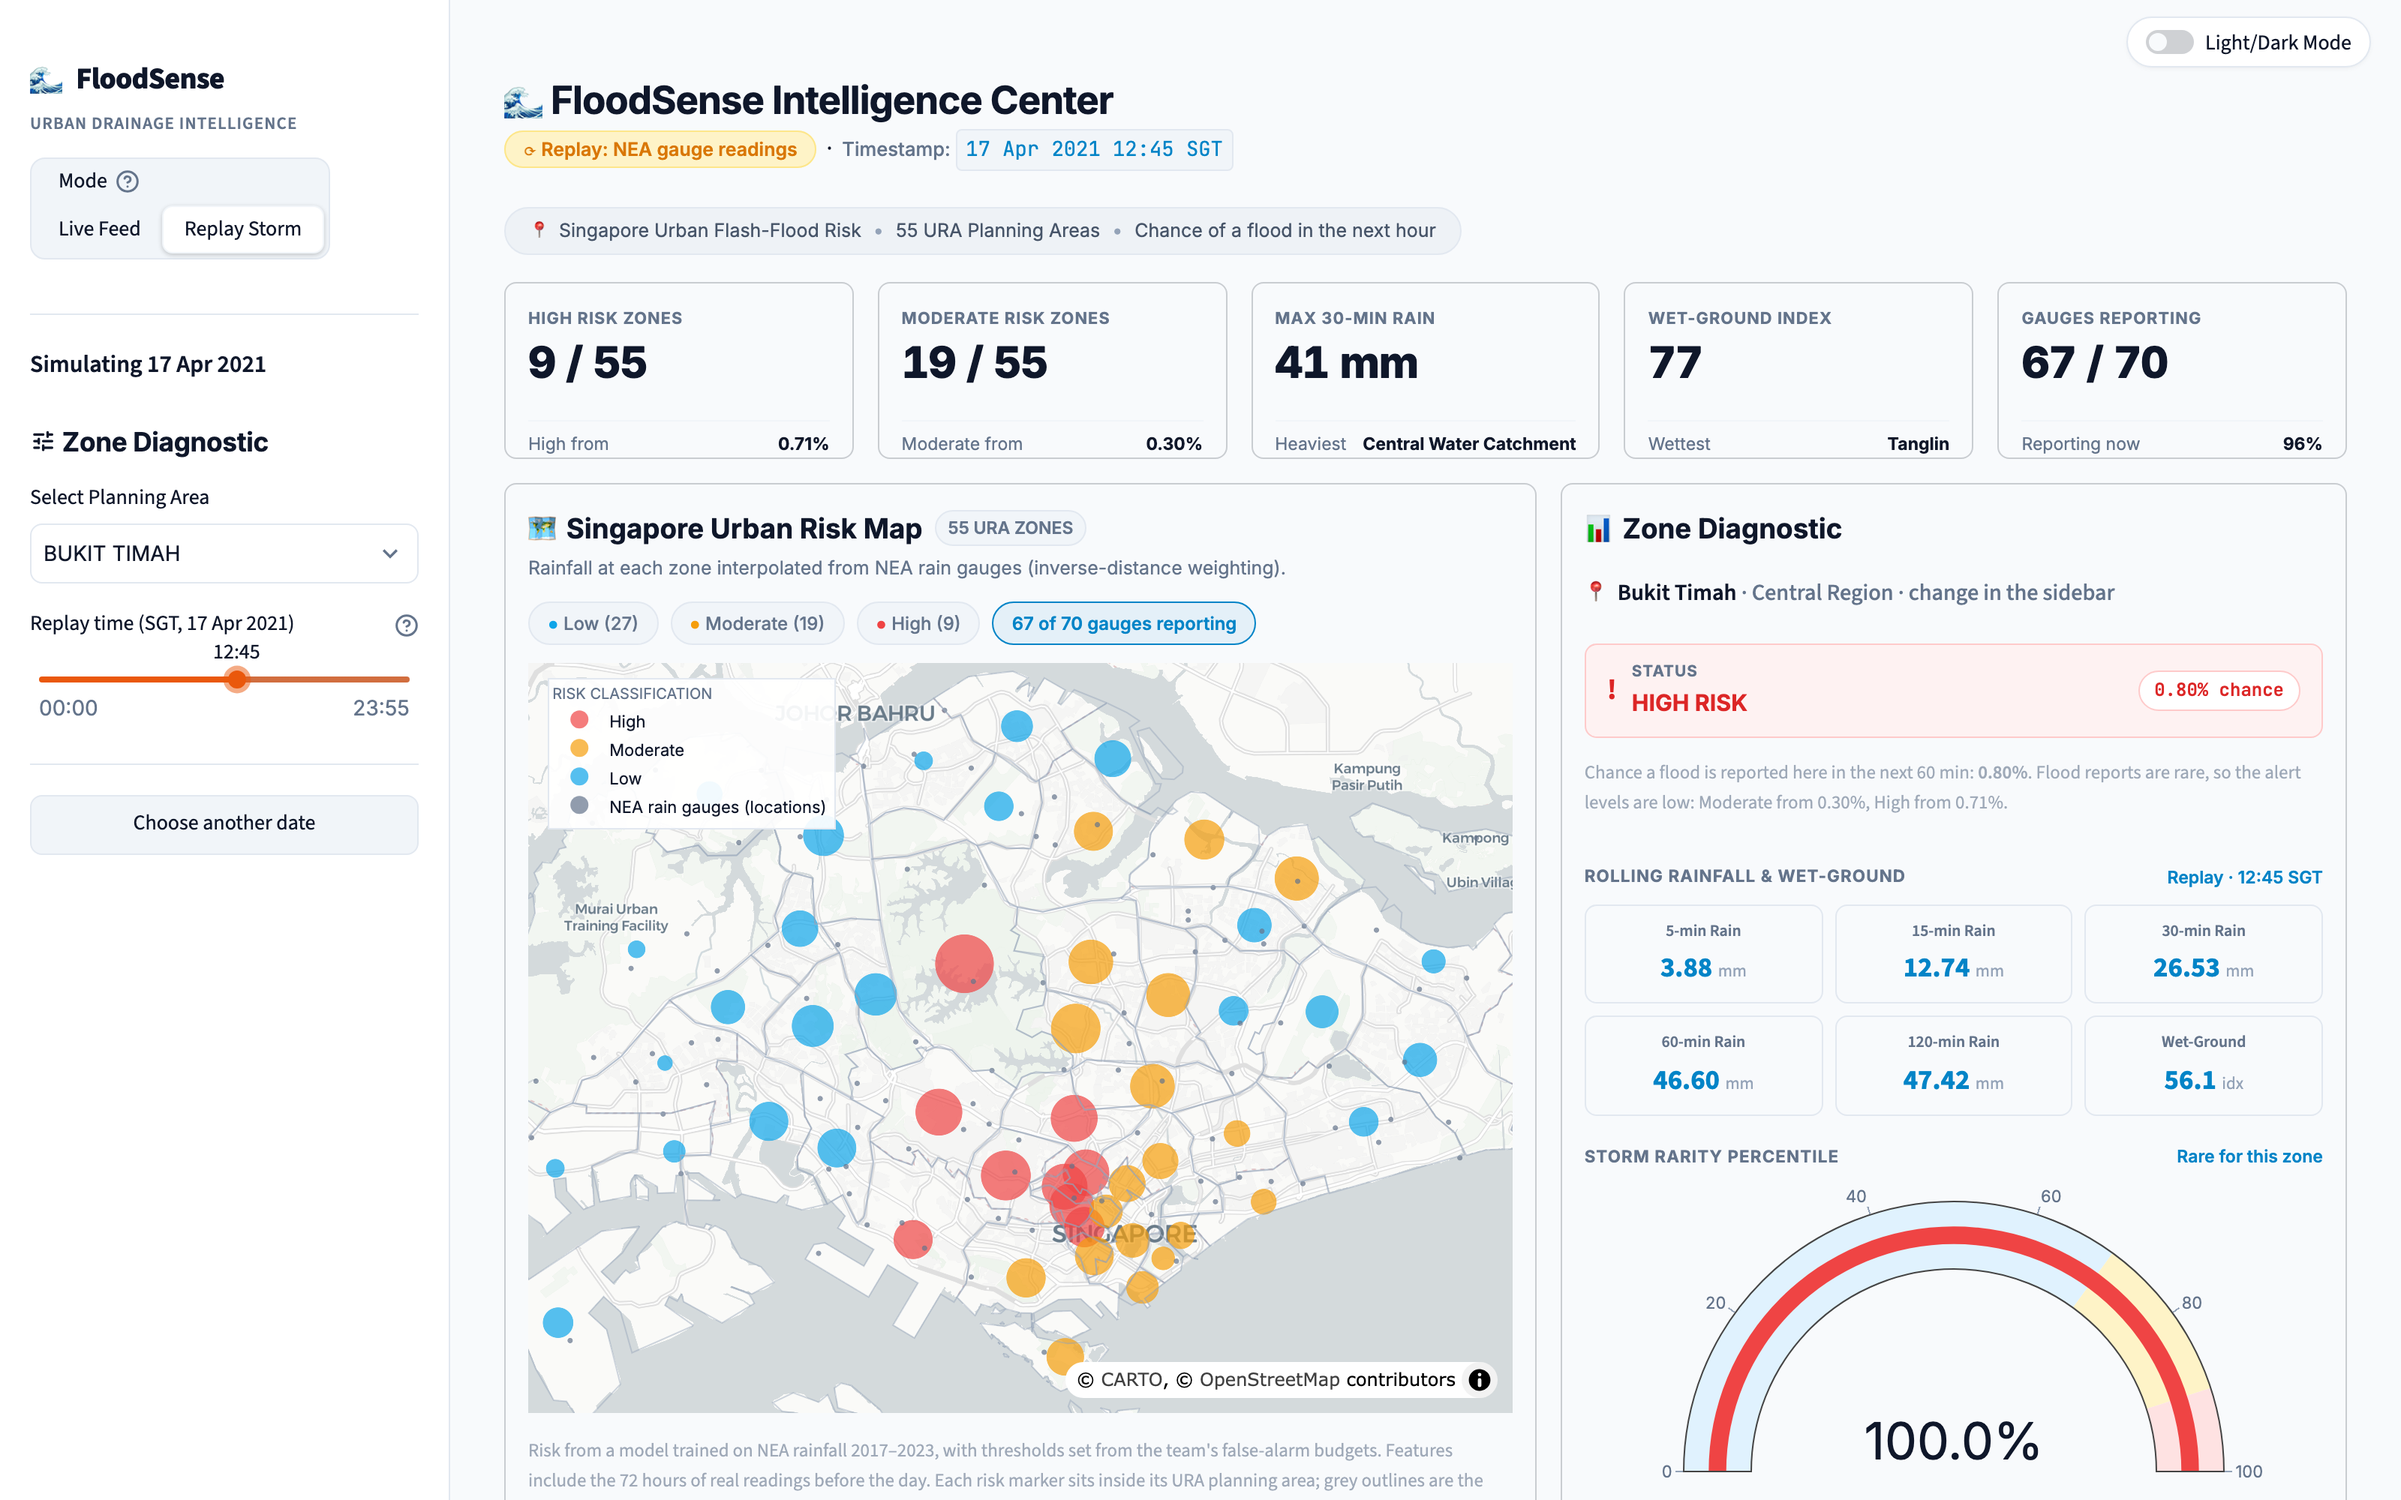
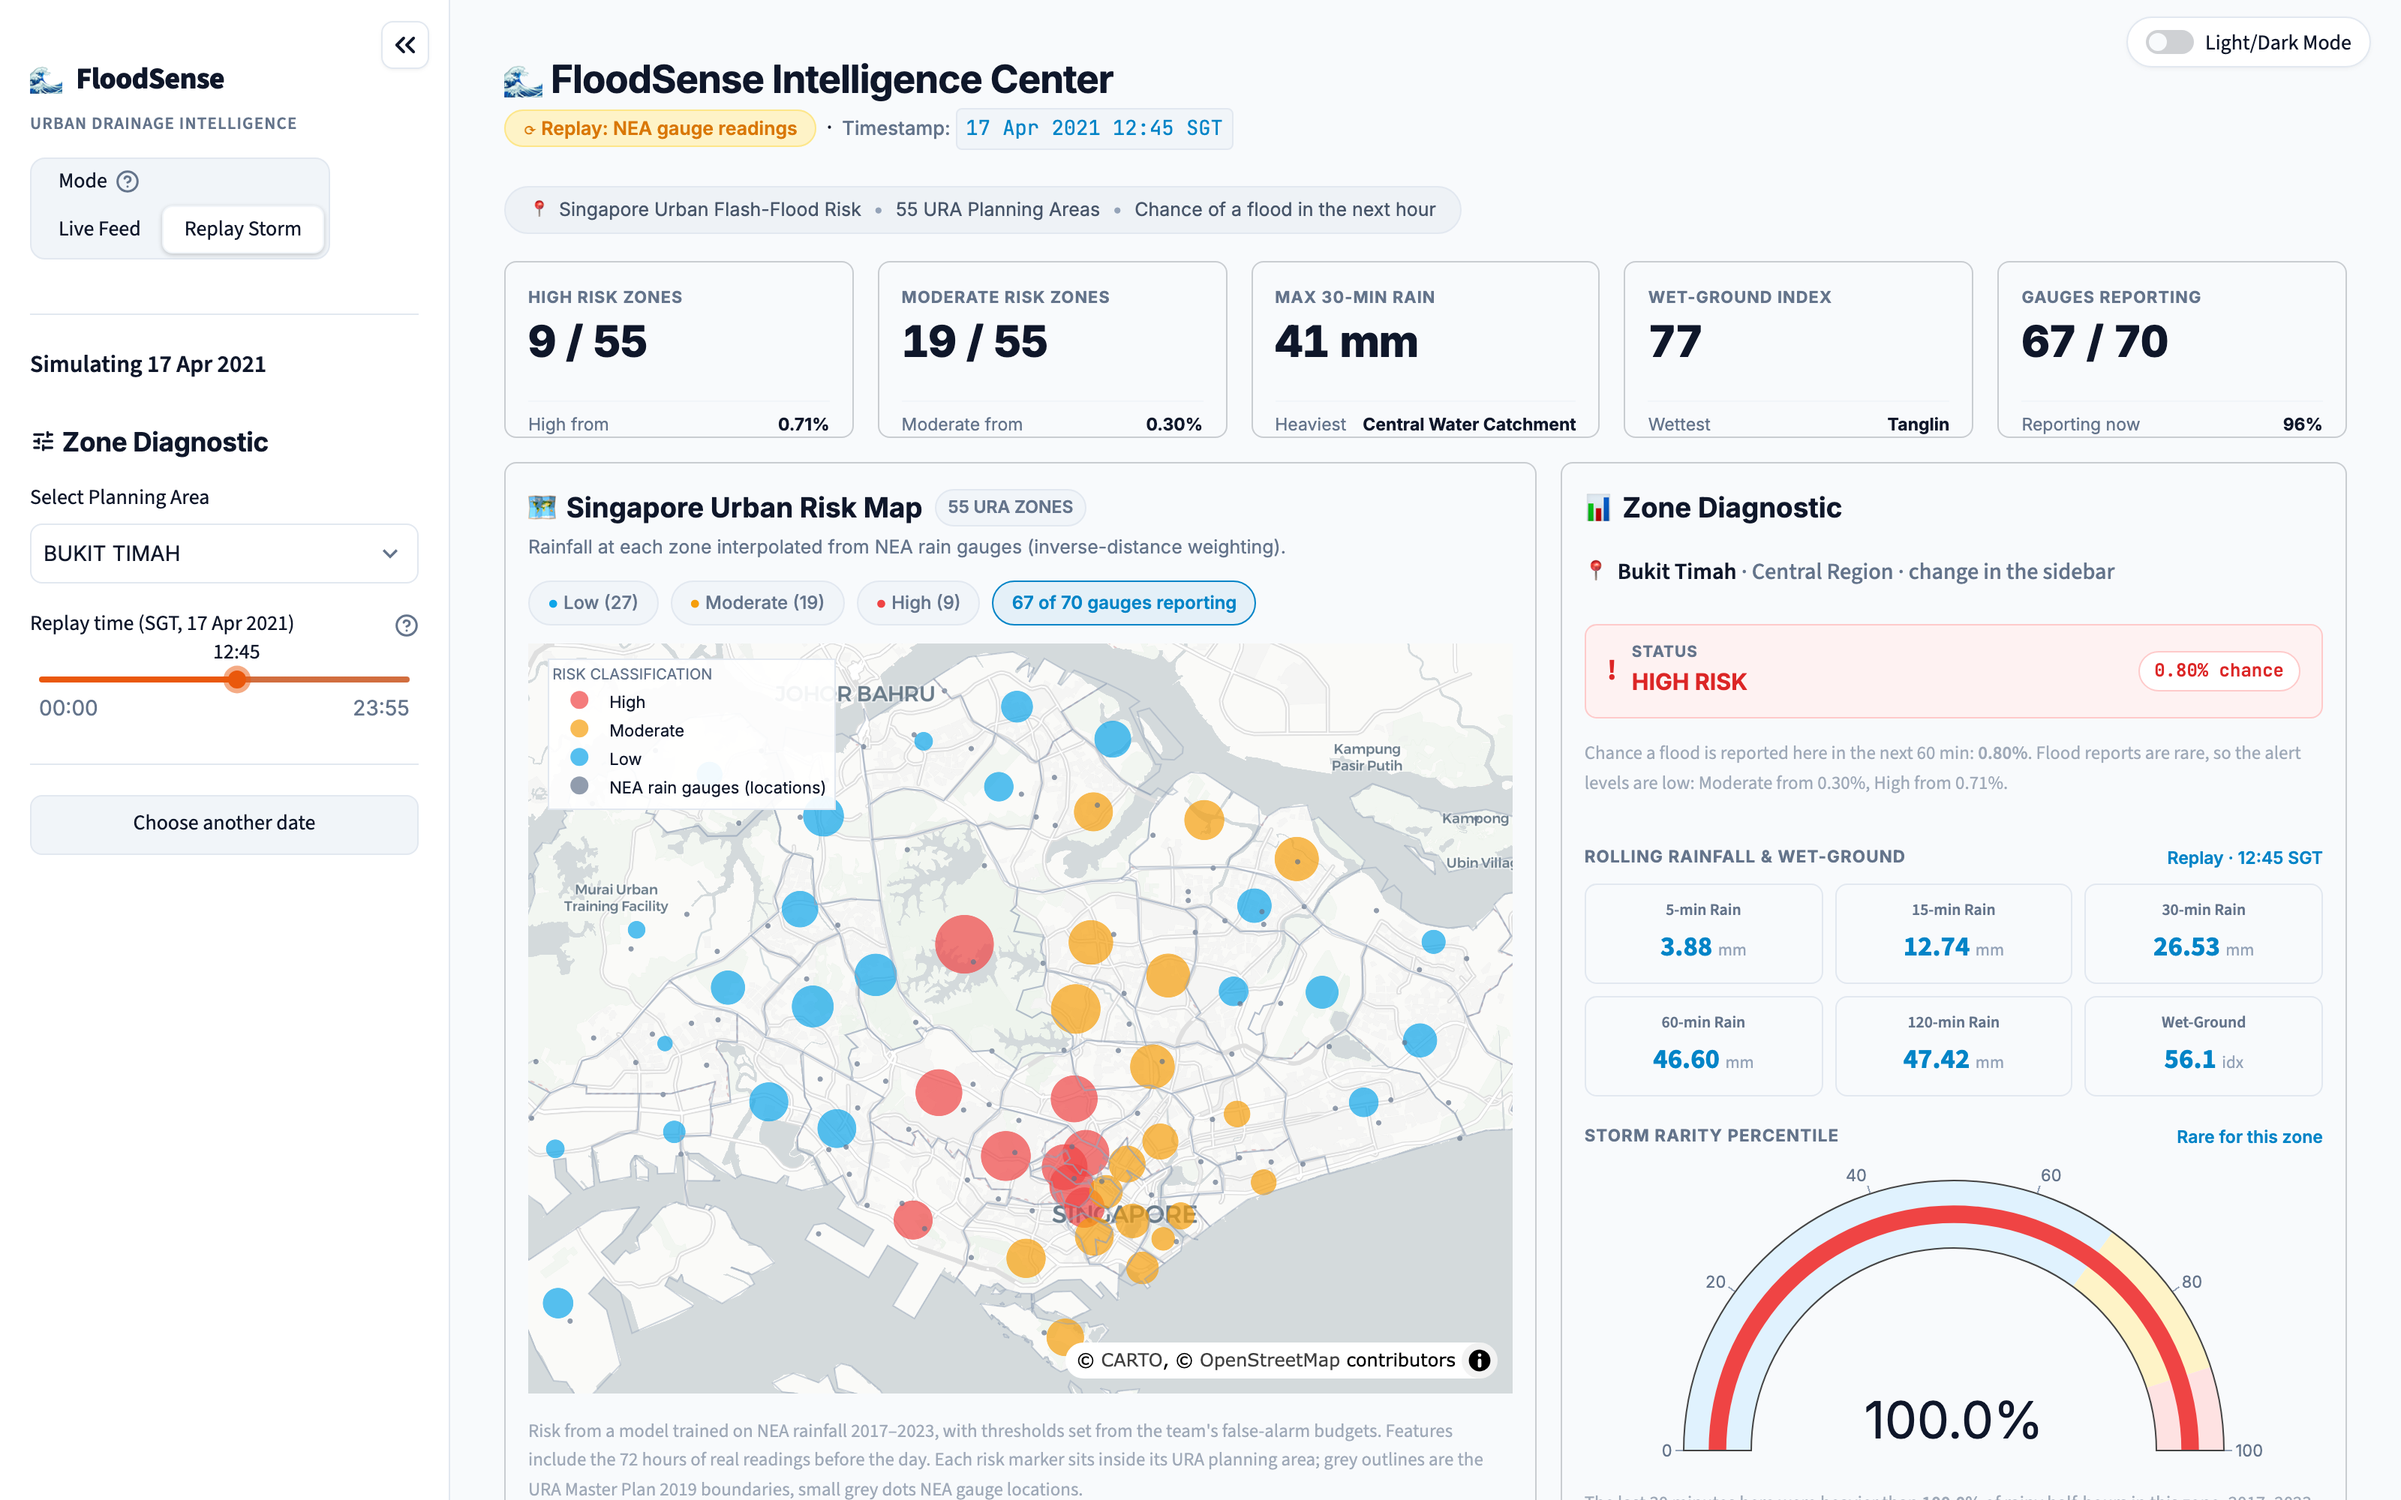
fix(ui): close button matches the open button; title level with the sidebar brand
The sidebar close button is always visible and boxed like the reopen button, 14px from the
panel's top-right corner (mirroring the reopen button's top-left). Less top padding puts the page
title level with the sidebar's FloodSense text. Screenshots retaken.

diff --git a/src/floodsense/app/streamlit_app.py b/src/floodsense/app/streamlit_app.py
@@ -216,6 +216,36 @@ div[data-testid="stSidebarCollapsedControl"],
     transition: all 0.15s ease !important;
 }}
 
+/* The close button mirrors the open button: same box, always visible, 14px from the corner */
+[data-testid="stSidebarContent"] {{
+    position: relative !important;  /* anchor for the close button: the panel's own edges */
+}}
+[data-testid="stSidebarHeader"] {{
+    position: static !important;
+}}
+[data-testid="stSidebarCollapseButton"] {{
+    visibility: visible !important;
+    display: flex !important;
+    position: absolute !important;
+    top: 14px !important;
+    right: 11px !important;  /* 14px from the panel edge, past its 3px resize strip */
+    z-index: 1000 !important;
+}}
+[data-testid="stSidebarCollapseButton"] button {{
+    background: var(--bg-surface) !important;
+    border: 1px solid var(--border-main) !important;
+    border-radius: 8px !important;
+    box-shadow: var(--card-shadow) !important;
+    width: 32px !important;
+    height: 32px !important;
+    display: flex !important;
+    align-items: center !important;
+    justify-content: center !important;
+    padding: 0 !important;
+}}
+[data-testid="stSidebarCollapseButton"] span {{
+    color: var(--text-main) !important;
+}}
 [data-testid="stExpandSidebarButton"] svg,
 [data-testid="stExpandSidebarButton"] span {{
     color: var(--text-main) !important;
@@ -223,7 +253,7 @@ div[data-testid="stSidebarCollapsedControl"],
 
 /* Page container */
 .block-container {{
-    padding-top: 1rem !important;
+    padding-top: 0.4rem !important;
     padding-bottom: 2.75rem !important;
     padding-left: 2.25rem !important;
     padding-right: 2.25rem !important;
@@ -406,7 +436,7 @@ button[kind="secondary"]:hover,
 }}
 
 .st-key-app_header h1 {{
-    padding-top: 0.25rem !important;
+    padding-top: 0 !important;  /* level with the sidebar's "FloodSense" */
 }}
 
 /* Less empty space above the sidebar's brand (keeps the collapse button) */
